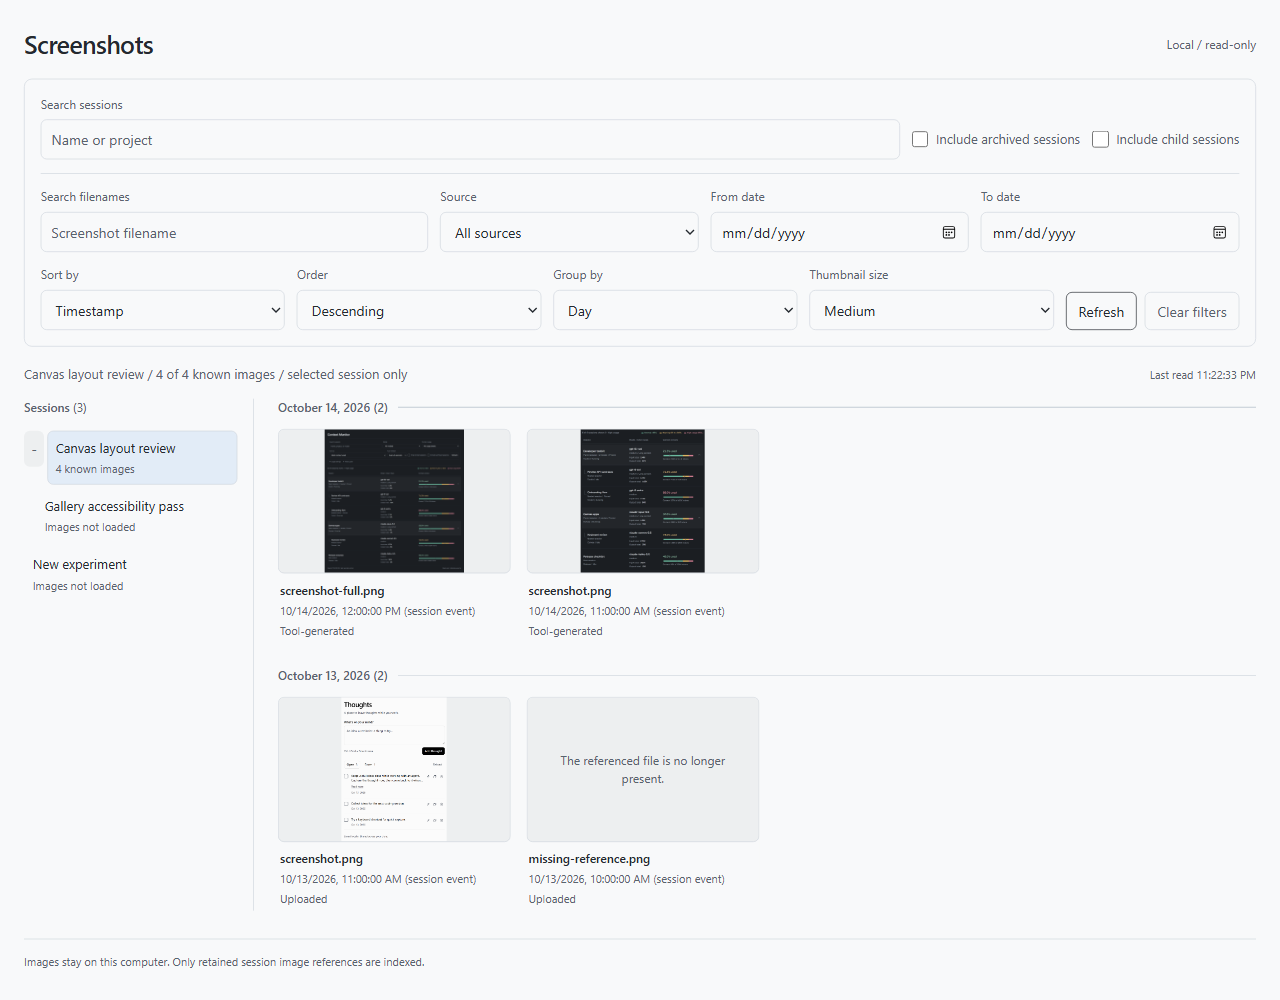
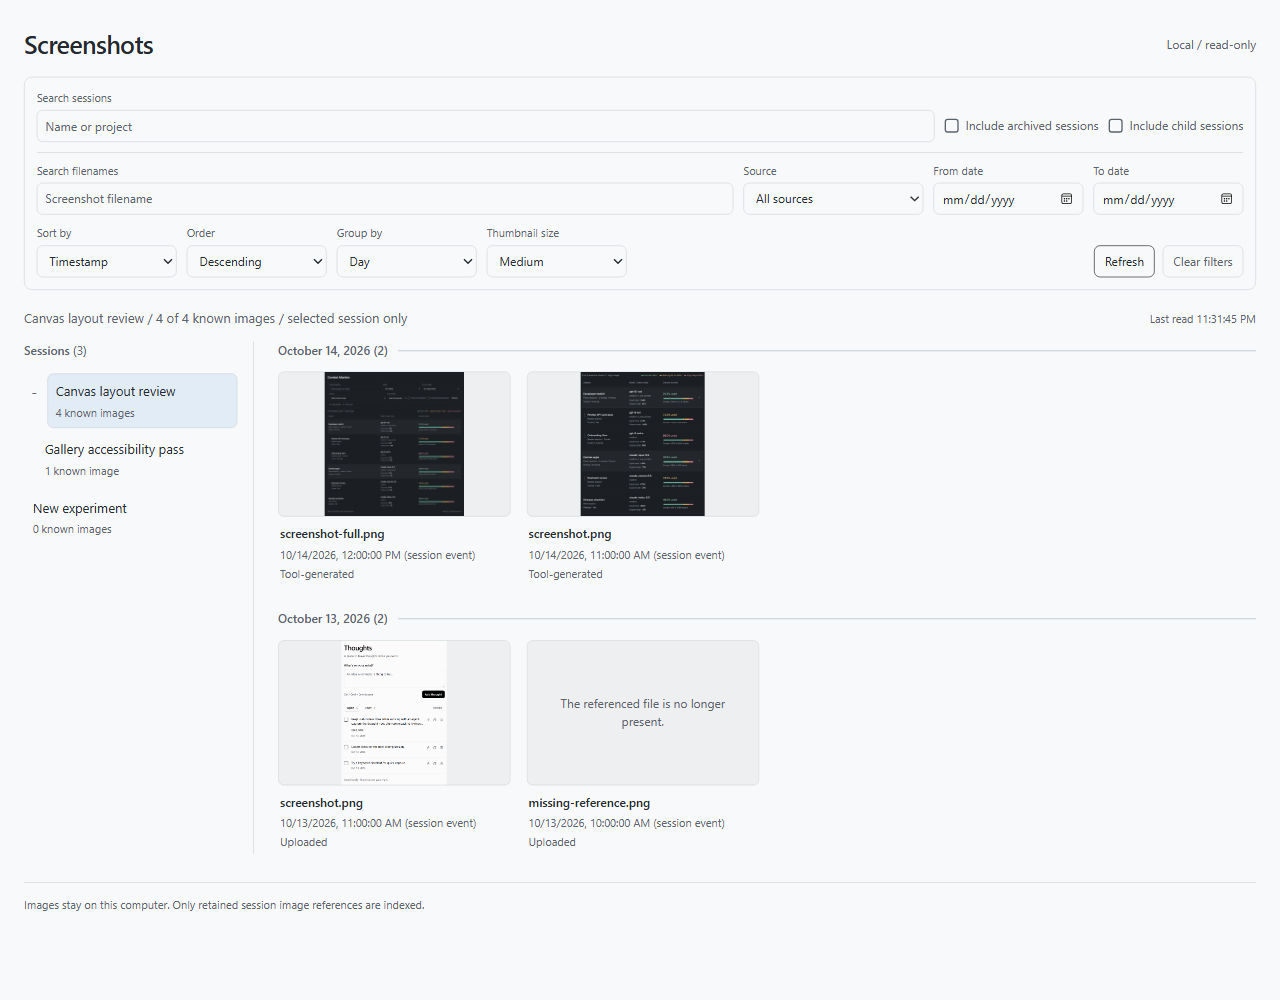
Compact Screenshots controls and anchor session menu below
Replace browser-controlled session select placement with a keyboard-accessible downward menu. Make unchecked boxes transparent and reduce form fields to 32px with tighter responsive rows.

Copilot-Session: f916eafb-b251-46b3-a351-c0035afcd6c8

diff --git a/apps/screenshots/style.css b/apps/screenshots/style.css
@@ -29,20 +29,24 @@ button:active { transform: translateY(1px); }
 button:disabled { opacity: .55; cursor: default; }
 button:focus-visible, input:focus-visible, select:focus-visible, [tabindex]:focus-visible { outline: 2px solid var(--accent); outline-offset: 3px; }
 button[aria-pressed="true"] { background: var(--selected); border-color: var(--accent); }
-input:not([type="checkbox"]), select { width: 100%; min-width: 0; min-height: 40px; padding: 8px 10px; border: 1px solid var(--edge); border-radius: 6px; background: var(--surface); }
+input:not([type="checkbox"]), select { width: 100%; min-width: 0; height: 32px; padding: 4px 8px; font-size: 12px; line-height: 20px; border: 1px solid var(--edge); border-radius: 6px; background: var(--surface); }
 input::placeholder { color: var(--muted); opacity: 1; }
 .field { min-width: 0; }
-.field > label { display: block; font-size: 12px; color: var(--muted); margin-bottom: 6px; }
-.control-panel { margin-top: 18px; border: 1px solid var(--edge); border-radius: 8px; padding: 16px; }
-.control-row { display: grid; align-items: end; gap: 12px; }
-.control-row + .control-row { margin-top: 14px; }
-.session-controls { grid-template-columns: minmax(180px, 1fr) auto auto; padding-bottom: 14px; border-bottom: 1px solid var(--edge); margin-bottom: 14px; }
-.image-controls { grid-template-columns: minmax(180px, 1.5fr) minmax(130px, 1fr) minmax(140px, 1fr) minmax(140px, 1fr); }
-.display-controls { grid-template-columns: repeat(4, minmax(110px, 1fr)) auto; }
-.control-panel > .display-controls { margin-top: 14px; }
-.check-filter { display: flex; align-items: center; gap: 7px; min-height: 40px; font-size: 13px; color: var(--muted); cursor: pointer; }
-.check-filter input { width: 17px; height: 17px; margin: 0; accent-color: var(--accent); }
-.control-actions { display: flex; gap: 8px; flex-wrap: wrap; }
+.field > label { display: block; font-size: 11px; color: var(--muted); margin-bottom: 4px; }
+.control-panel { margin-top: 16px; border: 1px solid var(--edge); border-radius: 8px; padding: 12px; }
+.control-row { display: grid; align-items: end; gap: 10px; }
+.control-row + .control-row { margin-top: 10px; }
+.session-controls { grid-template-columns: minmax(160px, 1fr) auto auto; padding-bottom: 10px; border-bottom: 1px solid var(--edge); margin-bottom: 10px; }
+.image-controls { grid-template-columns: minmax(160px, 1fr) minmax(120px, 180px) repeat(2, minmax(120px, 150px)); }
+.display-controls { grid-template-columns: repeat(4, minmax(96px, 140px)) minmax(0, 1fr); }
+.control-panel > .display-controls { margin-top: 10px; }
+.check-filter { display: flex; align-items: center; gap: 7px; min-height: 32px; font-size: 12px; color: var(--muted); cursor: pointer; }
+.check-filter input { appearance: none; display: grid; place-content: center; flex: 0 0 14px; width: 14px; height: 14px; margin: 0; border: 1.5px solid var(--muted); border-radius: 3px; background: transparent; cursor: pointer; }
+.check-filter input:checked { background: var(--ink); border-color: var(--ink); }
+.check-filter input:checked::before { content: ""; width: 4px; height: 7px; border: solid var(--surface); border-width: 0 1.5px 1.5px 0; transform: translateY(-1px) rotate(45deg); }
+.check-filter input:disabled { opacity: .55; cursor: default; }
+.control-actions { display: flex; gap: 8px; flex-wrap: wrap; justify-self: end; }
+.control-actions button { min-height: 32px; padding: 5px 10px; font-size: 12px; }
 #refresh { border-color: var(--ink); }
 .quiet { color: var(--muted); }
 .overview { display: flex; align-items: baseline; justify-content: space-between; gap: 8px 16px; flex-wrap: wrap; margin: 18px 0 14px; font-size: 13px; color: var(--muted); }
@@ -62,7 +66,14 @@ aside h2 { color: var(--muted); font-size: 12px; }
 .session-button[aria-current="true"] { background: var(--selected); border-color: var(--edge); }
 .session-name { display: block; font-size: 13px; overflow-wrap: anywhere; }
 .session-meta { display: block; font-size: 11px; color: var(--muted); margin-top: 3px; overflow-wrap: anywhere; }
-.compact-picker { display: none; }
+.compact-picker { display: none; position: relative; }
+#session-picker { width: 100%; min-width: 0; min-height: 32px; height: 32px; display: flex; align-items: center; gap: 12px; text-align: left; padding: 4px 8px; font-size: 12px; }
+#session-picker-value { min-width: 0; flex: 1; overflow: hidden; text-overflow: ellipsis; white-space: nowrap; }
+#session-picker::after { content: ""; width: 6px; height: 6px; flex-shrink: 0; border-right: 1.5px solid var(--muted); border-bottom: 1.5px solid var(--muted); transform: translateY(-2px) rotate(45deg); }
+#session-options { position: absolute; z-index: 1; top: calc(100% + 4px); left: 0; right: 0; max-height: 220px; overflow-y: auto; overscroll-behavior: contain; padding: 4px; border: 1px solid var(--edge); border-radius: 6px; background: var(--surface); }
+.session-option { display: block; width: 100%; min-height: 30px; padding: 5px 8px; border: 0; border-radius: 3px; font-size: 12px; text-align: left; white-space: normal; overflow-wrap: anywhere; }
+.session-option[aria-selected="true"] { background: var(--selected); font-weight: 600; }
+.session-option:focus-visible { outline-offset: -2px; }
 .gallery-area { min-width: 0; }
 .image-group + .image-group { margin-top: 24px; }
 .group-heading { display: flex; align-items: center; gap: 10px; color: var(--muted); font-size: 12px; font-weight: 500; margin-bottom: 12px; }
@@ -101,6 +112,7 @@ dialog::backdrop { background: rgb(15 18 24 / .72); }
 #details dd { font-size: 12px; margin: 3px 0 0; overflow-wrap: anywhere; }
 #details .path-detail { grid-column: 1 / -1; }
 @media (max-width: 1000px) {
+    .image-controls { grid-template-columns: minmax(140px, 1fr) repeat(3, minmax(100px, 1fr)); }
     .display-controls { grid-template-columns: repeat(4, minmax(0, 1fr)); }
     .control-actions { grid-column: 1 / -1; justify-content: end; }
     .session-controls { grid-template-columns: 1fr 1fr; }
@@ -111,9 +123,10 @@ dialog::backdrop { background: rgb(15 18 24 / .72); }
     .control-panel { padding: 12px; }
     .control-row { gap: 10px; }
     .image-controls, .display-controls { grid-template-columns: repeat(2, minmax(0, 1fr)); }
-    .image-controls .field:first-child { grid-column: 1 / -1; }
-    .session-controls { grid-template-columns: minmax(0, 1fr); }
-    .session-controls .field { grid-column: auto; }
+    .image-controls .field:first-child { grid-column: auto; }
+    .session-controls { grid-template-columns: repeat(2, minmax(0, 1fr)); }
+    .session-controls .field { grid-column: 1 / -1; }
+    .check-filter { min-height: 28px; font-size: 11px; gap: 6px; }
     .browse { grid-template-columns: minmax(0, 1fr); gap: 18px; }
     aside { border: 0; padding: 0; }
     aside h2, #sessions { display: none; }
@@ -123,8 +136,13 @@ dialog::backdrop { background: rgb(15 18 24 / .72); }
     .preview-controls { gap: 6px; }
     .preview-stage { height: 45dvh; }
 }
-@media (max-width: 380px) {
+@media (max-width: 320px) {
     .image-controls, .display-controls { grid-template-columns: minmax(0, 1fr); }
     .image-controls .field:first-child { grid-column: auto; }
     .control-actions { justify-content: start; }
+}
+@media (forced-colors: active) {
+    .check-filter input { appearance: auto; background: revert; border: revert; }
+    .check-filter input::before { display: none; }
+    .session-option[aria-selected="true"] { outline: 1px solid Highlight; }
 }

diff --git a/apps/screenshots/app.js b/apps/screenshots/app.js
@@ -42,11 +42,10 @@ function renderSessions() {
     const rows = sessionTree(sessions, view, collapsed);
     $("session-count").textContent = `(${rows.length})`;
     $("sessions").replaceChildren();
-    $("session-picker").replaceChildren(new Option("Select a session", ""));
-    for (const session of sessionTree(sessions, view)) {
-        $("session-picker").add(new Option(`${"  ".repeat(Math.min(session.depth, 8))}${session.name}${session.archived ? " (archived)" : ""}`, session.id));
-    }
-    $("session-picker").value = selected || "";
+    const current = sessions.find((session) => session.id === selected);
+    $("session-picker-value").textContent = current ? `${current.name}${current.archived ? " (archived)" : ""}` : "Select a session";
+    $("session-picker").disabled = !sessionTree(sessions, view).length;
+    if (!$("session-options").hidden) closeSessionPicker($("session-options").contains(document.activeElement));
     for (const session of rows.slice(0, sessionLimit)) {
         const row = node("div", null, "session-row");
         row.style.setProperty("--depth", String(session.depth));
@@ -63,6 +62,7 @@ function renderSessions() {
             };
             row.append(fold);
         }
+
         const button = node("button", null, "session-button");
         button.type = "button";
         button.setAttribute("aria-current", String(session.id === selected));
@@ -82,6 +82,39 @@ function renderSessions() {
     }
     if (!rows.length) $("sessions").append(node("p", sessions.length ? "No sessions match these controls." : "No local sessions found.", "muted"));
     $("sessions").setAttribute("aria-busy", String(loadingSessions));
+}
+
+function closeSessionPicker(restoreFocus = false) {
+    $("session-options").hidden = true;
+    $("session-picker").setAttribute("aria-expanded", "false");
+    if (restoreFocus) $("session-picker").focus();
+}
+
+function openSessionPicker(last = false) {
+    const rows = sessionTree(sessions, view);
+    if (!rows.length) return;
+    pickerSearch = "";
+    const menu = $("session-options");
+    menu.replaceChildren();
+    for (const session of rows) {
+        const option = node("button", `${session.name}${session.archived ? " (archived)" : ""}`, "session-option");
+        option.type = "button";
+        option.tabIndex = -1;
+        option.style.paddingLeft = `${8 + Math.min(session.depth, 8) * 12}px`;
+        option.setAttribute("role", "option");
+        option.setAttribute("aria-selected", String(session.id === selected));
+        option.onclick = () => {
+            closeSessionPicker(true);
+            selectSession(session.id);
+        };
+        menu.append(option);
+    }
+    menu.hidden = false;
+    $("session-picker").setAttribute("aria-expanded", "true");
+    const options = [...menu.children];
+    const active = options.find((option) => option.getAttribute("aria-selected") === "true") ?? (last ? options.at(-1) : options[0]);
+    active.focus({ preventScroll: true });
+    menu.scrollTop = active.offsetTop - menu.clientHeight / 2;
 }
 
 function empty(title, help) {
@@ -318,7 +351,47 @@ $("clear").onclick = () => {
     limit = 120; renderSessions(); renderGallery();
 };
 $("refresh").onclick = refresh;
-$("session-picker").onchange = (event) => selectSession(event.target.value);
+$("session-picker").onclick = () => {
+    if ($("session-options").hidden) openSessionPicker(); else closeSessionPicker();
+};
+$("session-picker").onkeydown = (event) => {
+    if (["ArrowDown", "ArrowUp"].includes(event.key)) {
+        event.preventDefault();
+        openSessionPicker(event.key === "ArrowUp");
+    }
+};
+let pickerSearch = "", pickerSearchAt = 0;
+$("session-options").onkeydown = (event) => {
+    const options = [...$("session-options").children];
+    const index = options.indexOf(document.activeElement);
+    let next;
+    if (event.key === "ArrowDown") next = Math.min(index + 1, options.length - 1);
+    if (event.key === "ArrowUp") next = Math.max(index - 1, 0);
+    if (event.key === "Home") next = 0;
+    if (event.key === "End") next = options.length - 1;
+    if (event.key === "Escape") {
+        event.preventDefault(); event.stopPropagation(); closeSessionPicker(true); return;
+    }
+    if (event.key.length === 1 && event.key !== " " && !event.ctrlKey && !event.metaKey && !event.altKey) {
+        const now = Date.now();
+        pickerSearch = `${now - pickerSearchAt > 700 ? "" : pickerSearch}${event.key.toLowerCase()}`;
+        pickerSearchAt = now;
+        next = options.findIndex((option) => option.textContent.trim().toLowerCase().startsWith(pickerSearch));
+    }
+    if (next !== undefined && next >= 0) {
+        event.preventDefault();
+        options[next].focus({ preventScroll: true });
+        const menu = $("session-options"), option = options[next];
+        if (option.offsetTop < menu.scrollTop) menu.scrollTop = option.offsetTop;
+        if (option.offsetTop + option.offsetHeight > menu.scrollTop + menu.clientHeight) menu.scrollTop = option.offsetTop + option.offsetHeight - menu.clientHeight;
+    }
+};
+document.addEventListener("pointerdown", (event) => {
+    if (!event.target.closest(".compact-picker")) closeSessionPicker();
+});
+$("session-options").addEventListener("focusout", (event) => {
+    if (!event.relatedTarget?.closest(".compact-picker")) closeSessionPicker();
+});
 $("more").onclick = () => { limit += 120; renderGallery(); };
 $("close-preview").onclick = () => $("viewer").close();
 $("viewer").addEventListener("close", () => {

diff --git a/apps/screenshots/index.html b/apps/screenshots/index.html
@@ -38,7 +38,11 @@
     <div class="browse">
         <aside aria-label="Session navigator">
             <h2>Sessions <span id="session-count"></span></h2>
-            <div class="compact-picker field"><label for="session-picker">Selected session</label><select id="session-picker"><option value="">Select a session</option></select></div>
+            <div class="compact-picker field">
+                <label id="session-picker-label" for="session-picker">Selected session</label>
+                <button id="session-picker" type="button" aria-haspopup="listbox" aria-expanded="false" aria-controls="session-options" aria-labelledby="session-picker-label session-picker-value"><span id="session-picker-value">Select a session</span></button>
+                <div id="session-options" role="listbox" aria-labelledby="session-picker-label" hidden></div>
+            </div>
             <nav id="sessions" aria-label="Sessions" aria-busy="true"><p class="muted">Loading sessions...</p></nav>
         </aside>
         <section class="gallery-area" aria-label="Screenshot gallery">

diff --git a/apps/screenshots/README.md b/apps/screenshots/README.md
@@ -34,7 +34,7 @@ The panel below the title keeps the browsing controls together, following Contex
 | Refresh | Re-read local metadata and image references, preserving valid filters and selection. No automatic refresh. |
 | Clear filters | Clear session search, filename search, source, and dates. Keep session selection, scope toggles, sort, grouping, and thumbnail size. |
 
-Initially the gallery uses newest timestamps first, grouped by day, with medium thumbnails. Select a session from the navigator, or use the session picker in a narrow canvas. Expand/collapse buttons only change the navigator; they do not change image scope.
+Initially the gallery uses newest timestamps first, grouped by day, with medium thumbnails. Select a session from the navigator, or use the compact session picker in a narrow canvas. Its scrollable menu always opens below the field. Arrow keys, Home/End, and typing navigate the options; Enter selects and Escape dismisses. Expand/collapse buttons only change the navigator; they do not change image scope.
 
 Select a thumbnail to open its full-size preview. Use Fit, Actual size, zoom, Previous/Next, or the left/right arrow keys. Escape closes the viewer. Navigation follows the current filtered order, including images beyond the currently rendered gallery page.
 
